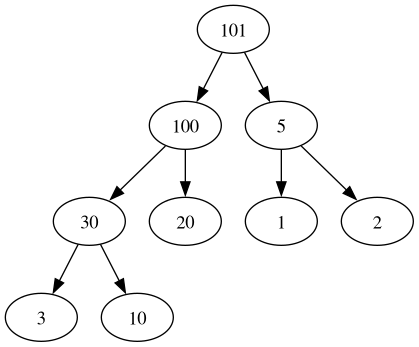
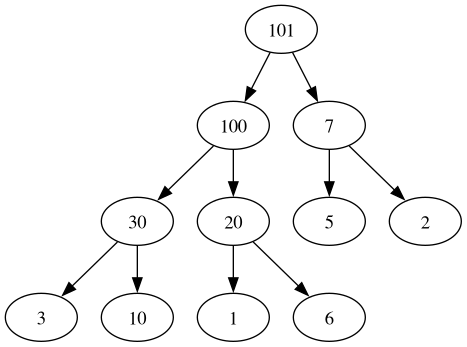
[*] fix heap

diff --git a/alcorithm/app/data_structures/examples/heap.py b/alcorithm/app/data_structures/examples/heap.py
@@ -69,6 +69,8 @@ max_heap.insert(2)
 max_heap.insert(3)
 max_heap.insert(101)
 max_heap.insert(102)
+max_heap.insert(6)
+max_heap.insert(7)
 
 
 print(max_heap.extract_max())  # Вывод: 30
